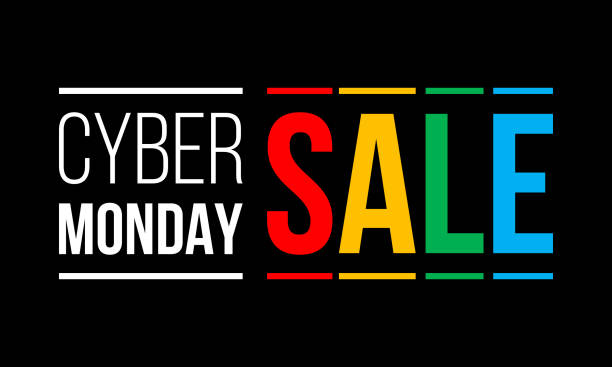
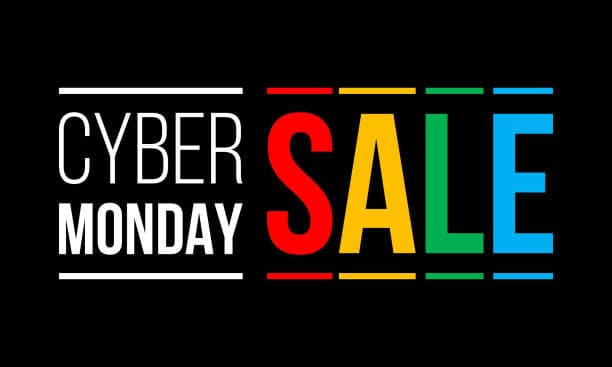
optimizadas varias imagenes del index

diff --git a/index.html b/index.html
@@ -104,7 +104,7 @@
         <a href="index.html">
           <img
             class="header__title--img"
-            src="imagenes/28857144-grungy-sello-importaci+¦n-redondo-rojo-aislado-en-fondo-blanco.png"
+            src="imagenes/logo.png"
             alt="imagen de importacion"
           />
           <h1 class="header__title__text">
